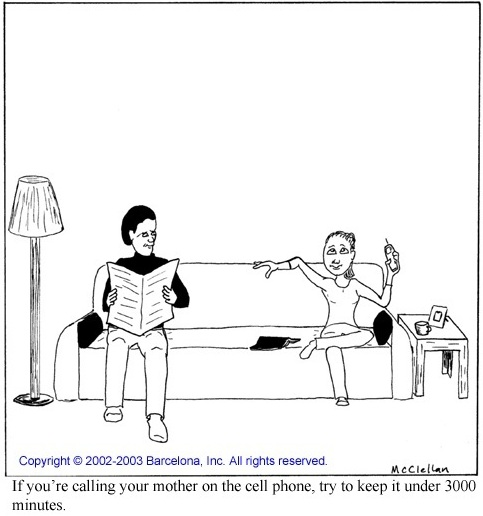
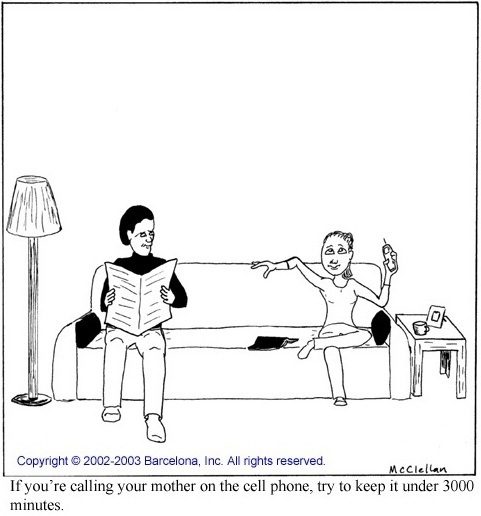
converted to jpg

Changed region(s): [[0.0, 0.0, 0.9044, 0.9922], [0.499, 0.4341, 0.9356, 0.7752]]

diff --git a/images/cartoons/index.md b/images/cartoons/index.md
@@ -18,12 +18,12 @@ Click a thumbnail to view the full-size image.
 
 <div class="gallery-grid">
 
-  <a href="full/3000MinutePhoneCallCopyrighted.gif">
+  <a href="full/3000MinutePhoneCallCopyrighted.jpg">
     <img src="thumbnails/3000MinutePhoneCallCopyrighted-thumb.jpg"
          alt="3000 Minute Phone Call Cartoon">
   </a>
 
-  <a href="full/AmishTalkRadioCopyrighted.gif">
+  <a href="full/AmishTalkRadioCopyrighted.jpg">
     <img src="thumbnails/AmishTalkRadioCopyrighted-thumb.jpg"
          alt="Amish Talk Radio Cartoon">
   </a>
